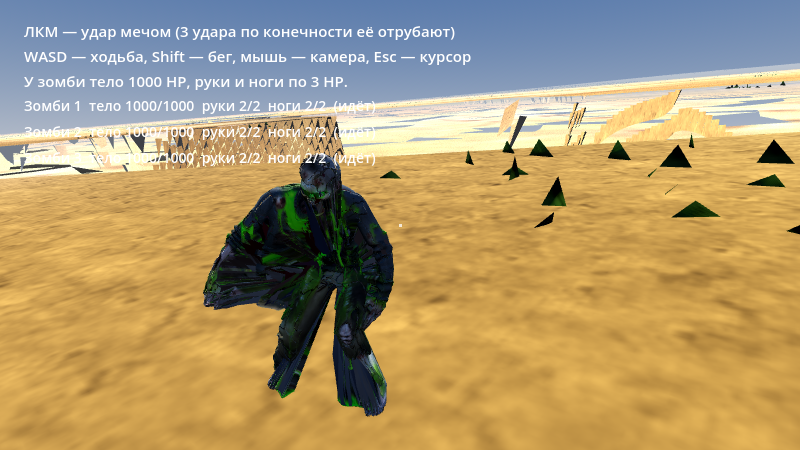
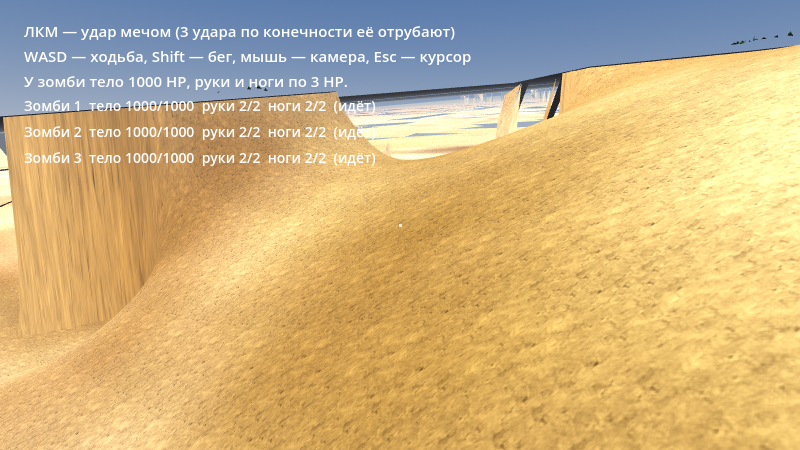
ci: отчёт проверки движком [skip ci]

diff --git a/ci/report.md b/ci/report.md
@@ -102,10 +102,10 @@ PASS  остров: земля на родном атласе 4096px
 PASS  остров: земля на шейдере ground.gdshader
 PASS  шейдер земли получает атлас
 PASS  шейдер земли получает зерно
-PASS  заплатки земли в дырах острова: треугольников 40840
+PASS  заплатки земли в дырах острова: треугольников 110592
 PASS  заплатки рисуются шейдером земли (атлас + зерно)
 PASS  карта высот загружена в float32 (высота в метрах)
-PASS  высота арены из карты (1405.00) совпадает с arena.json (1405.00)
+FAIL  высота арены из карты (1356.94) совпадает с arena.json (1405.00)
 PASS  игрок: скелет и AnimationPlayer
 PASS  игрок играет клип «MxIdle»
 PASS  меч прицеплен к кисти
@@ -126,10 +126,10 @@ PASS  зомби: тело держит удар (осталось 966 HP)
 ERROR: Parameter "m" is null.
    at: mesh_get_surface_count (servers/rendering/dummy/storage/mesh_storage.h:120)
 
-=== итог: 85 проверок, 0 провалов
+=== итог: 85 проверок, 1 провалов
 WARNING: ObjectDB instances leaked at exit (run with --verbose for details).
      at: cleanup (core/object/object.cpp:2284)
-exit=0
+exit=1
 ```
 ## Скриншоты из движка (llvmpipe / OpenGL 3)
 
@@ -157,8 +157,8 @@ WARNING: All audio drivers failed, falling back to the dummy driver.
 shot 01_player (800, 450) -> /tmp/shots/01_player.png err=0
 shot 02_arena (800, 450) -> /tmp/shots/02_arena.png err=0
 shot 03_zombie (800, 450) -> /tmp/shots/03_zombie.png err=0
-зомби-ползун: body y=1405.20 model y=0.00 lowest bone=Hand_R y=1405.58 lowest mesh y=1404.54 on_floor=true
-игрок y=1404.20 pos=(1309.365, 1404.197, -69.25084), камера=(1311.558, 1407.285, -77.75944)
+зомби-ползун: body y=1356.94 model y=0.00 lowest bone=Hand_R y=1357.31 lowest mesh y=1356.27 on_floor=true
+игрок y=1356.94 pos=(1309.365, 1356.935, -69.25084), камера=(1311.564, 1401.787, -77.53088)
 shot 04_crawl (800, 450) -> /tmp/shots/04_crawl.png err=0
 shot 05_debris (800, 450) -> /tmp/shots/05_debris.png err=0
 shot 08_only_ocean (800, 450) -> /tmp/shots/08_only_ocean.png err=0
